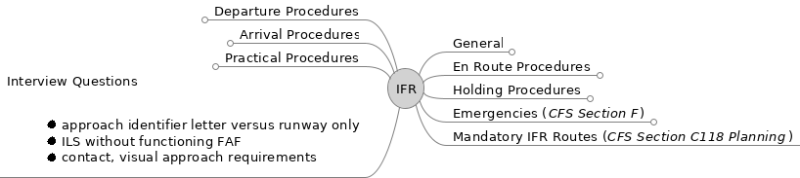
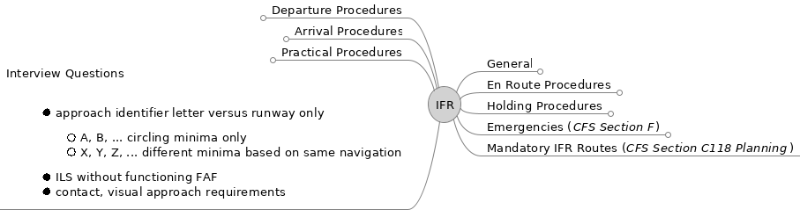
extended IFR mind map

diff --git a/MIFR/IFR.mm b/MIFR/IFR.mm
@@ -177,7 +177,7 @@
 </node>
 <node CREATED="1579645689253" ID="ID_80744334" MODIFIED="1579645696519" TEXT="Development of Instrument Procedures"/>
 </node>
-<node CREATED="1579633414558" FOLDED="true" ID="ID_654204230" MODIFIED="1600186707090" POSITION="left" TEXT="Departure Procedures">
+<node CREATED="1579633414558" FOLDED="true" ID="ID_654204230" MODIFIED="1600373420651" POSITION="left" TEXT="Departure Procedures">
 <node CREATED="1579645753810" ID="ID_1034102258" MODIFIED="1579645765446" TEXT="Aerodrome Operations"/>
 <node CREATED="1579645777165" ID="ID_948846528" MODIFIED="1579645790319" TEXT="Automatic Terminal Information System (ATIS) Broadcast"/>
 <node CREATED="1579645820876" ID="ID_1542868492" MODIFIED="1579645824944" TEXT="Initial Contact"/>
@@ -295,7 +295,7 @@
 </node>
 </node>
 </node>
-<node CREATED="1579642122387" FOLDED="true" ID="ID_15581158" MODIFIED="1581708300937">
+<node CREATED="1579642122387" ID="ID_15581158" MODIFIED="1600365296281">
 <richcontent TYPE="NODE"><html>
   <head>
     
@@ -348,7 +348,7 @@
   </body>
 </html></richcontent>
 <icon BUILTIN="help"/>
-<node CREATED="1579642903721" ID="ID_284205814" MODIFIED="1581703640675">
+<node CREATED="1579642903721" ID="ID_284205814" MODIFIED="1600366516332">
 <richcontent TYPE="NODE"><html>
   <head>
     
@@ -361,6 +361,9 @@
       
     </p>
     <ul>
+      <li>
+        only applies to <b>VCOA&#160;</b>departures
+      </li>
       <li>
         according to aircraft approach speed category
       </li>
@@ -409,6 +412,224 @@
 <node CREATED="1579644396728" ID="ID_1220853600" MODIFIED="1579644402728" TEXT="Release from Tower Frequency"/>
 <node CREATED="1579644466100" ID="ID_1705369011" MODIFIED="1579644474483" TEXT="Departures from Uncontrolled Airports"/>
 <node CREATED="1579644760443" ID="ID_77314256" MODIFIED="1579644770079" TEXT="Alerting Service for Uncontrolled Airports"/>
+<node CREATED="1600365369617" ID="ID_1586590438" MODIFIED="1600372963073">
+<richcontent TYPE="NODE"><html>
+  <head>
+    
+  </head>
+  <body>
+    <p>
+      Departure Types
+    </p>
+    <p>
+      
+    </p>
+    <ul>
+      <li>
+        obstacle and terrain clearance requirements apply if not otherwise stated
+      </li>
+      <li>
+        different climb gradients and speeds may be required
+      </li>
+    </ul>
+  </body>
+</html>
+</richcontent>
+<icon BUILTIN="messagebox_warning"/>
+<node CREATED="1600365397456" ID="ID_1837255989" MODIFIED="1600372889468">
+<richcontent TYPE="NODE"><html>
+  <head>
+    
+  </head>
+  <body>
+    <p>
+      Obstacle Departure Procedure (ODP)
+    </p>
+    <p>
+      
+    </p>
+    <ul>
+      <li>
+        option for aircraft not meeting the SID required climb gradients
+      </li>
+    </ul>
+  </body>
+</html>
+</richcontent>
+<node CREATED="1600365508127" ID="ID_1967124099" MODIFIED="1600368045194">
+<richcontent TYPE="NODE"><html>
+  <head>
+    
+  </head>
+  <body>
+    <p>
+      Departure Procedure (DP)
+    </p>
+    <p>
+      
+    </p>
+    <ul>
+      <li>
+        Examples:
+
+        <ul>
+          <li>
+            CYWL Departure Procedure Chart
+          </li>
+          <li>
+            CYZT Departure Procedure Chart
+          </li>
+          <li>
+            CYBL Aerodrome Chart
+          </li>
+          <li>
+            CYAZ Aerodrome Chart
+          </li>
+        </ul>
+      </li>
+    </ul>
+  </body>
+</html></richcontent>
+<node CREATED="1600366673308" ID="ID_1373945476" MODIFIED="1600368718756">
+<richcontent TYPE="NODE"><html>
+  <head>
+    
+  </head>
+  <body>
+    <p>
+      RNAV
+    </p>
+    <p>
+      
+    </p>
+    <ul>
+      <li>
+        based on GNSS navigation
+      </li>
+      <li>
+        Examples:
+
+        <ul>
+          <li>
+            CAT4 SENRI3 DP (RNAV)
+          </li>
+          <li>
+            CBS8 KAVTU1 DP (RNAV), TUKES1 DP (RNAV)
+          </li>
+        </ul>
+      </li>
+    </ul>
+  </body>
+</html></richcontent>
+</node>
+</node>
+<node CREATED="1600365549095" ID="ID_1387972397" MODIFIED="1600372917989">
+<richcontent TYPE="NODE"><html>
+  <head>
+    
+  </head>
+  <body>
+    <p>
+      Visual Climb Over the Airport (VCOA)
+    </p>
+    <p>
+      
+    </p>
+    <ul>
+      <li>
+        option for aircraft not meeting the ODP required climb gradients
+      </li>
+      <li>
+        SPEC VIS only applies to VCOA
+      </li>
+      <li>
+        Examples:
+
+        <ul>
+          <li>
+            CYCD Aerodrome Chart
+          </li>
+          <li>
+            CYWL Departure Procedure Chart
+          </li>
+          <li>
+            CYZT Departure Procedure Chart
+          </li>
+          <li>
+            CYBL Aerodrome Chart
+          </li>
+          <li>
+            CAT4 Aerodrome Chart
+          </li>
+          <li>
+            CYAZ Aerodrome Chart
+          </li>
+        </ul>
+      </li>
+    </ul>
+  </body>
+</html>
+</richcontent>
+</node>
+</node>
+<node CREATED="1600365418707" ID="ID_1721211248" MODIFIED="1600365461734" TEXT="Standard Instrument Departure (SID)">
+<node CREATED="1600365478655" ID="ID_1185433446" MODIFIED="1600365903292">
+<richcontent TYPE="NODE"><html>
+  <head>
+    
+  </head>
+  <body>
+    <p>
+      Pilot Nav
+    </p>
+    <p>
+      
+    </p>
+    <ul>
+      <li>
+        Examples:
+
+        <ul>
+          <li>
+            CYYJ MB8 SID (PILOT NAV)
+          </li>
+          <li>
+            CYYJ CLOAKE6 SID (PILOT NAV)
+          </li>
+        </ul>
+      </li>
+    </ul>
+  </body>
+</html></richcontent>
+</node>
+<node CREATED="1600365497400" ID="ID_1277227959" MODIFIED="1600365947523">
+<richcontent TYPE="NODE"><html>
+  <head>
+    
+  </head>
+  <body>
+    <p>
+      Vector
+    </p>
+    <p>
+      
+    </p>
+    <ul>
+      <li>
+        Examples:
+
+        <ul>
+          <li>
+            CYYJ CYYJ5 SID (VECTOR)
+          </li>
+        </ul>
+      </li>
+    </ul>
+  </body>
+</html></richcontent>
+</node>
+</node>
+</node>
 </node>
 <node CREATED="1579633433848" FOLDED="true" ID="ID_1247278460" MODIFIED="1600186729757" POSITION="right" TEXT="En Route Procedures">
 <node CREATED="1579811215993" ID="ID_1170940779" MODIFIED="1579811219032" TEXT="Position Reports"/>
@@ -2184,7 +2405,7 @@
 </html></richcontent>
 </node>
 </node>
-<node CREATED="1579815802154" FOLDED="true" ID="ID_971957458" MODIFIED="1600284400926" POSITION="left" TEXT="Practical Procedures">
+<node CREATED="1579815802154" FOLDED="true" ID="ID_971957458" MODIFIED="1600369083387" POSITION="left" TEXT="Practical Procedures">
 <node CREATED="1580232275260" ID="ID_1364330056" LINK="BoldMethod/Holding%20Pattern%20Entries%20Boldmethod%20Live%20-%20YouTube.webm" MODIFIED="1598027700042">
 <richcontent TYPE="NODE"><html>
   <head>
@@ -2608,7 +2829,7 @@
 </html></richcontent>
 </node>
 </node>
-<node CREATED="1600196703468" FOLDED="true" ID="ID_1883704705" MODIFIED="1600284394475">
+<node CREATED="1600196703468" ID="ID_1883704705" MODIFIED="1600366255072">
 <richcontent TYPE="NODE"><html>
   <head>
     
@@ -2692,8 +2913,7 @@
       </li>
     </ul>
   </body>
-</html>
-</richcontent>
+</html></richcontent>
 <node CREATED="1600197928797" ID="ID_1155614633" MODIFIED="1600198583419">
 <richcontent TYPE="NODE"><html>
   <head>
@@ -2727,6 +2947,29 @@
       </li>
       <li>
         15 DME arc -&gt; 1.2 * 4 deg = 5 deg radial lead in
+      </li>
+    </ul>
+  </body>
+</html></richcontent>
+</node>
+<node CREATED="1600366261645" ID="ID_690657015" MODIFIED="1600366349136">
+<richcontent TYPE="NODE"><html>
+  <head>
+    
+  </head>
+  <body>
+    <p>
+      DME Arc Examples
+    </p>
+    <p>
+      
+    </p>
+    <ul>
+      <li>
+        CYWL VOR RWY 12
+      </li>
+      <li>
+        CYZT ILS RWY 11
       </li>
     </ul>
   </body>
@@ -3049,7 +3292,7 @@
 <node CREATED="1582226134506" ID="ID_455174213" MODIFIED="1582226157351" TEXT="Signals for Use in the Event of Interception"/>
 <node CREATED="1582226166020" ID="ID_1035087898" MODIFIED="1582226180568" TEXT="Emergency Security Control of Air Traffic (ESCAT) Plan"/>
 </node>
-<node CREATED="1580500672430" ID="ID_393965596" MODIFIED="1580500766704" POSITION="left">
+<node CREATED="1580500672430" ID="ID_393965596" MODIFIED="1600368564197" POSITION="left">
 <richcontent TYPE="NODE"><html>
   <head>
     
@@ -3064,6 +3307,15 @@
     <ul>
       <li>
         approach identifier letter versus runway only
+
+        <ul>
+          <li>
+            A, B, ... circling minima only
+          </li>
+          <li>
+            X, Y, Z, ... different minima based on same navigation
+          </li>
+        </ul>
       </li>
       <li>
         ILS without functioning FAF
